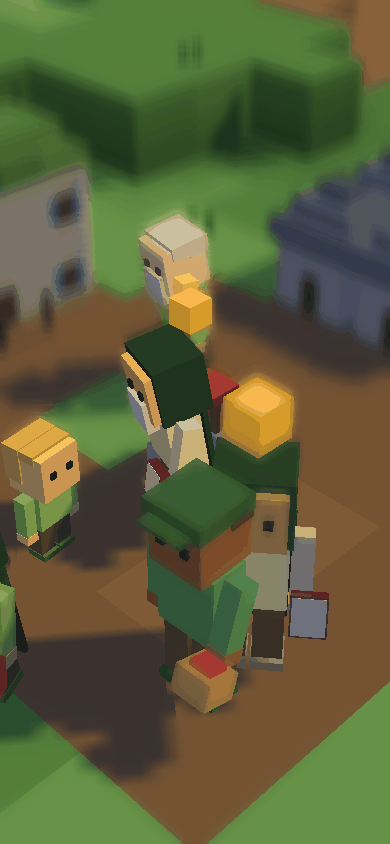
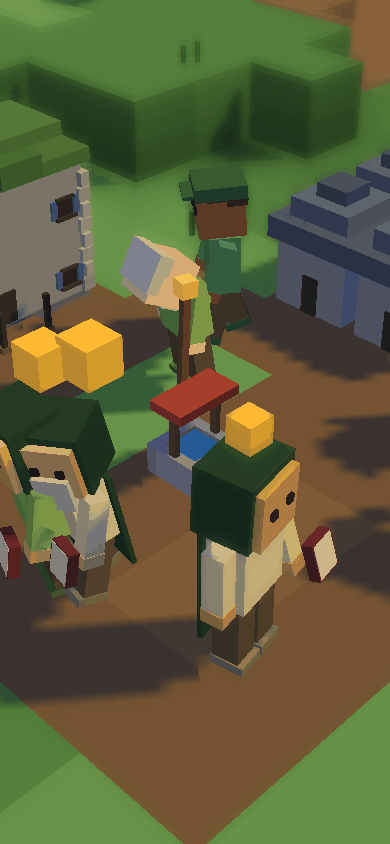
Looks: a deeper sharp zone and a softer blur when close
The owner after the closest frame: "The effect is a bit strong, we might want
to make the in-focus zone to be a bit bigger." The sharp zone is twice as deep
in front of and behind the focus (12% of its distance, was 6%), and the blur
shows at most two thirds of the blurred frame (FOCUS_MAX). The zoom rule is
unchanged: none over the island or at a mid zoom. village-close high retaken at
390x844 and 344x882; a check for the cap.

Claude-Session: https://claude.ai/code/session_01NxvtAnVeeSftkua711EPa8

diff --git a/src/sim/voxel/looks.ts b/src/sim/voxel/looks.ts
@@ -115,6 +115,8 @@ export interface LooksFrame {
 // whole at FOCUS_FULL (the sky view's closest is 8).
 export const FOCUS_FROM = 40;
 export const FOCUS_FULL = 10;
+// The most of the blurred frame shown, at the closest zoom: two thirds (the owner found the whole of it a bit strong).
+export const FOCUS_MAX = 0.67;
 
 // How much of the blurred frame the depth of field may show, 0 to 1, for a sky camera this far
 // from what it looks at; 0 in the eye view.
@@ -269,10 +271,11 @@ float sunLight(vec3 n) {
     // only when we zoom a lot"): none from FOCUS_FROM cells away and farther (a mid zoom, the
     // whole island), growing to full at the closest the sky view goes. In focus at the point
     // under the middle of the screen, blurred in front of it and behind it. Never in the eye view.
-    this.tiltAmount = GRAPHICS.tilt ? focusBlur(f.dist, f.eye) : 0;
+    this.tiltAmount = GRAPHICS.tilt ? focusBlur(f.dist, f.eye) * FOCUS_MAX : 0;
     this.tiltCenter = 0.5;
     // How far in front or behind the focus stays sharp, as a share of the focus distance.
-    this.tiltSharp = 0.06;
+    // Twice as deep as first built (the owner: "make the in-focus zone a bit bigger").
+    this.tiltSharp = 0.12;
   }
 
   // Lays the shadow map over what the camera holds, from the sun's side. The

diff --git a/scripts/looks-test.ts b/scripts/looks-test.ts
@@ -16,7 +16,7 @@ import {
   setLooksChoice,
   type Quality,
 } from "../src/sim/voxel/graphics";
-import { FOCUS_FULL, focusBlur, gradeColor } from "../src/sim/voxel/looks";
+import { FOCUS_FULL, FOCUS_MAX, focusBlur, gradeColor } from "../src/sim/voxel/looks";
 
 type Check = (name: string, ok: boolean, detail?: string) => void;
 
@@ -117,6 +117,8 @@ export function looksChecks(check: Check): void {
   check("the depth of field is whole at the closest sky zoom", focusBlur(FOCUS_FULL, false) === 1 && focusBlur(8, false) === 1);
   check("the depth of field grows as the camera comes closer", focusBlur(30, false) > 0 && focusBlur(30, false) < focusBlur(15, false));
   check("no depth of field in the eye view", focusBlur(8, true) === 0);
+  // The owner, after the closest frame: "a bit strong". At most two thirds of the blurred frame.
+  check("the depth of field shows at most two thirds of the blur", FOCUS_MAX > 0.6 && FOCUS_MAX < 0.7, `${FOCUS_MAX}`);
 
   for (const f of LOOKS_FLAGS) GRAPHICS[f] = was[f];
 }

diff --git a/docs/measurements/looks-render/README.md b/docs/measurements/looks-render/README.md
@@ -18,7 +18,10 @@ four switches in `src/sim/voxel/graphics.ts`, each measured alone, drawn in
 - `tilt`: the miniature's depth of field (the owner: "more than bloom it's more
   depth of field", then "it's really only when we zoom a lot"). Nothing over the
   whole island or at a mid zoom: it begins 40 cells from what the camera looks
-  at and is full at 10 (the sky view's closest is 8). In focus at the point
+  at and is full at 10 (the sky view's closest is 8), where it shows two thirds
+  of the blurred frame, with a sharp zone 12% of the focus distance deep in
+  front and behind (the owner: "a bit strong", "make the in-focus zone a bit
+  bigger"). In focus at the point
   under the middle of the screen, blurred more the farther in front of it or
   behind it; off in the eye view. The depth comes from a depth texture the
   scene's own pass writes (no extra pass); the blur is two passes at half
